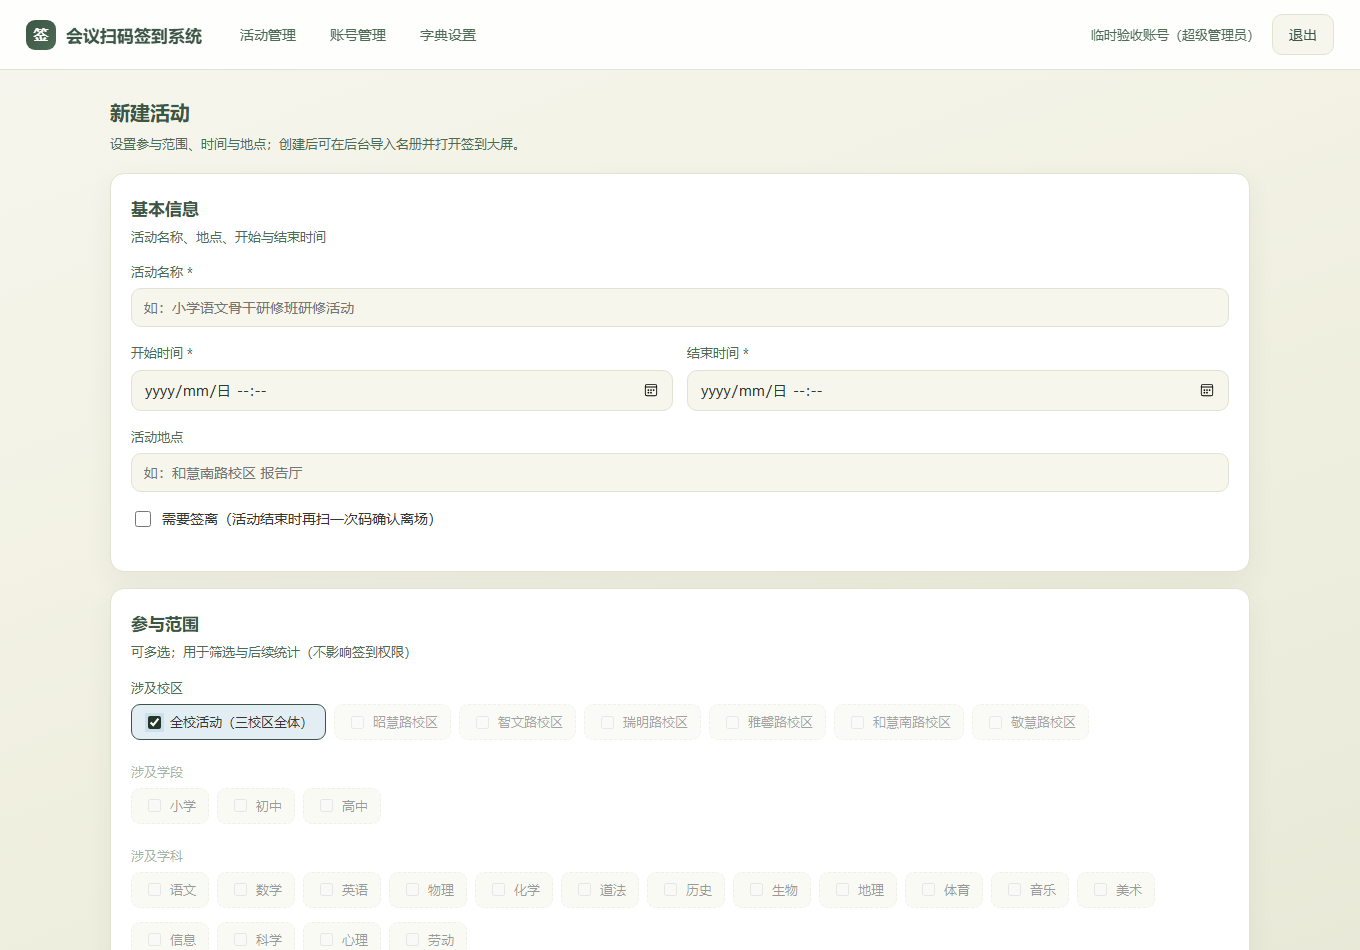
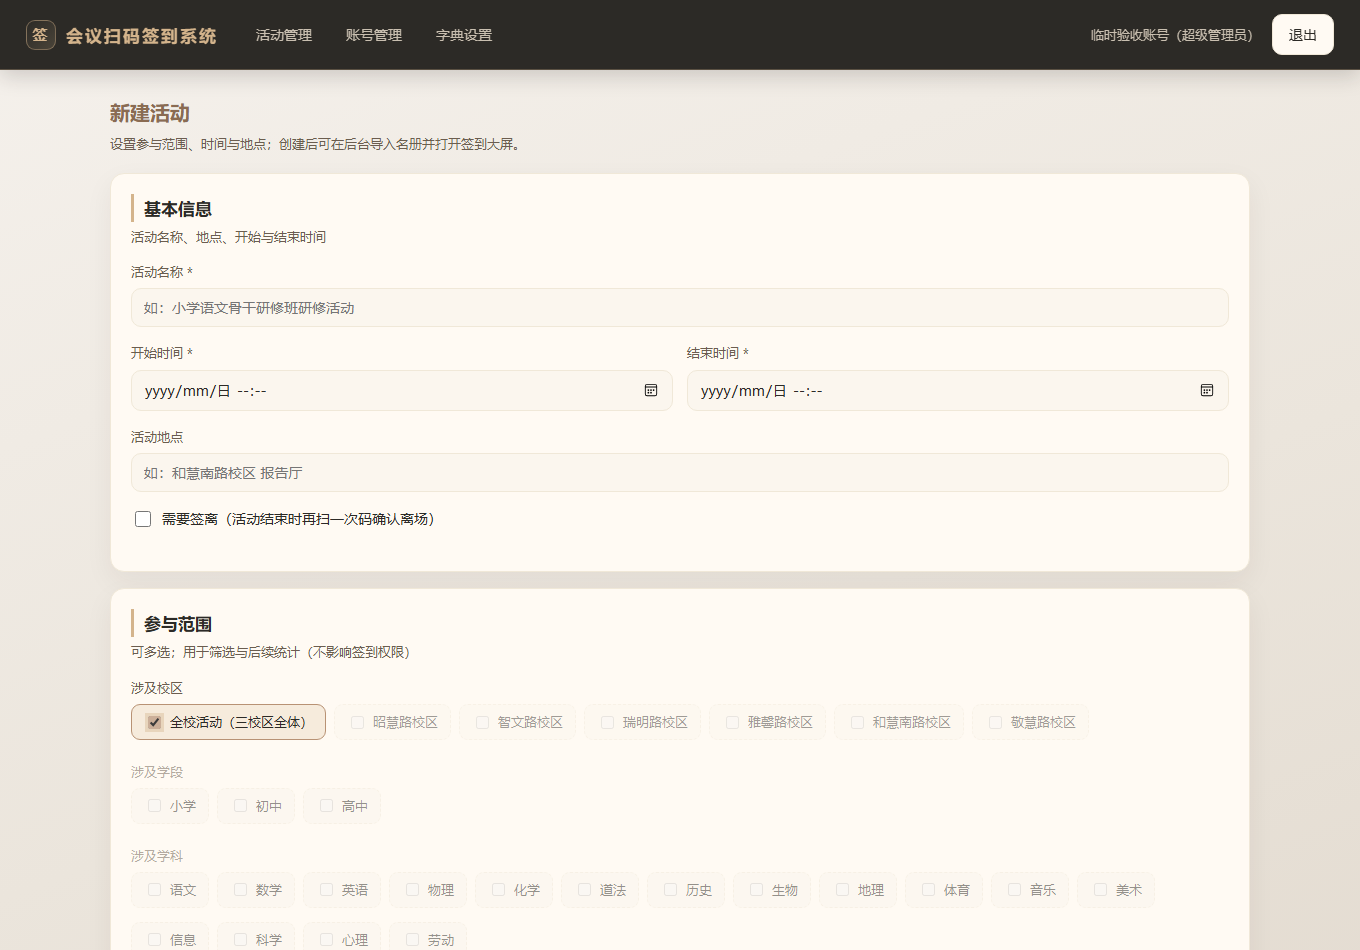
docs: 更新配色约定为日式黑金

diff --git a/AGENTS.md b/AGENTS.md
@@ -153,19 +153,21 @@ Set-Location 'D:\MiniMax工作站\签到系统'; & '.\.venv\Scripts\python.exe' 
 
 ## 配色约定
 
-**全站已换成「水彩 B 海岸铁道绿」**（用户 2026-11-17 最终选定；此前短暂用过海鸥蓝）：
+**全站已换成「日式黑金」（墨黑暖调 + 沙金）**（用户 2026-11-17 最终选定，参照其提供的大屏截图）：
 
-- 后台（`app.css`）：**浅色**。纸底 `#F7F6EE`→`#EFEFDF`→`#E7E7D6` 渐变、卡片 `#FFFFFF`、边框 `#DFE3D2`；
-  主色 `#3B5645`（墨绿，hover `#2C4234`）、辅 `#4E6B55`、亮 `#ADCEDF`；
-  文字 主 `#343635` / 次 `#4E6B55` / 弱 `#8A9484`；
-  语义色 成功 `#5E8C6E` / 错误 `#C96A6A` / 警告 `#BA9A6D`；圆角 14/18px。
-- 大屏（`board.css`）：**墨绿的深色变体**，为会场投影对比度。
-  底 `#4E6B55`→`#3B5645`→`#2A3D31` 径向渐变；二维码卡纯白；
-  **已签到=淡蓝 `#ADCEDF`、已签离=绿 `#9FCBB0` 的语义保持不变**。
-  统计卡与动态列表徽章都要遵守：`.board-page .feed-row .tag` 淡蓝（已签到）、
+- 后台（`app.css`）：**浅色暖调**。纸底 `#F5F1EC`→`#EBE5DC`→`#E2DACF` 渐变、卡片 `#FFFAF3`、边框 `#F0E8D8`；
+  墨黑 `#2C2A26`（hover `#1F1E1B`）、沙金 `#D4B48C`、陶土金 `#B89274`、深金 `#8A6B52`；
+  文字 主 `#2C2A26` / 次 `#6B5D4F` / 弱 `#8A7C6E`；
+  语义色 成功 `#6B8E7F` / 错误 `#C96A6A` / 警告 `#BA9A6D`；圆角 14/18px。
+  **顶栏是墨黑底 + 沙金字**（黑金识别点）；卡片标题左侧 3px 沙金竖条。
+- 大屏（`board.css`）：**墨黑暖调 + 沙金**。
+  底 `#4A4439`→`#2C2A26`→`#1F1E1B` 径向渐变；二维码卡纯白、码框 2px 沙金 `#D4B48C`；
+  现场码 `#8A6B52`；倒计时条沙金渐变 `#8A6B52→#D4B48C`；
+  **已签到=沙金 `#D4B48C`、已签离=绿 `#A8C4B4` 的语义保持不变**。
+  统计卡与动态列表徽章都要遵守：`.board-page .feed-row .tag` 沙金（已签到）、
   `.board-page .feed-row .tag.g` 绿（已签离）——`board.js` 里已签到**不加** `g` 类。
-- 手机扫码页（`scan.html` 内联样式）也是浅色墨绿系。
-- Excel 导出表头色：`app/exporter.py` 的 `HEADER_FILL` 要与主色同步改。
+- 手机扫码页（`scan.html` 内联样式）也是浅色暖调 + 沙金顶边。
+- Excel 导出表头色：`app/exporter.py` 的 `HEADER_FILL` 要与主色同步改（现为 `8A6B52`）。
 
 **改配色时的坑**：
 
